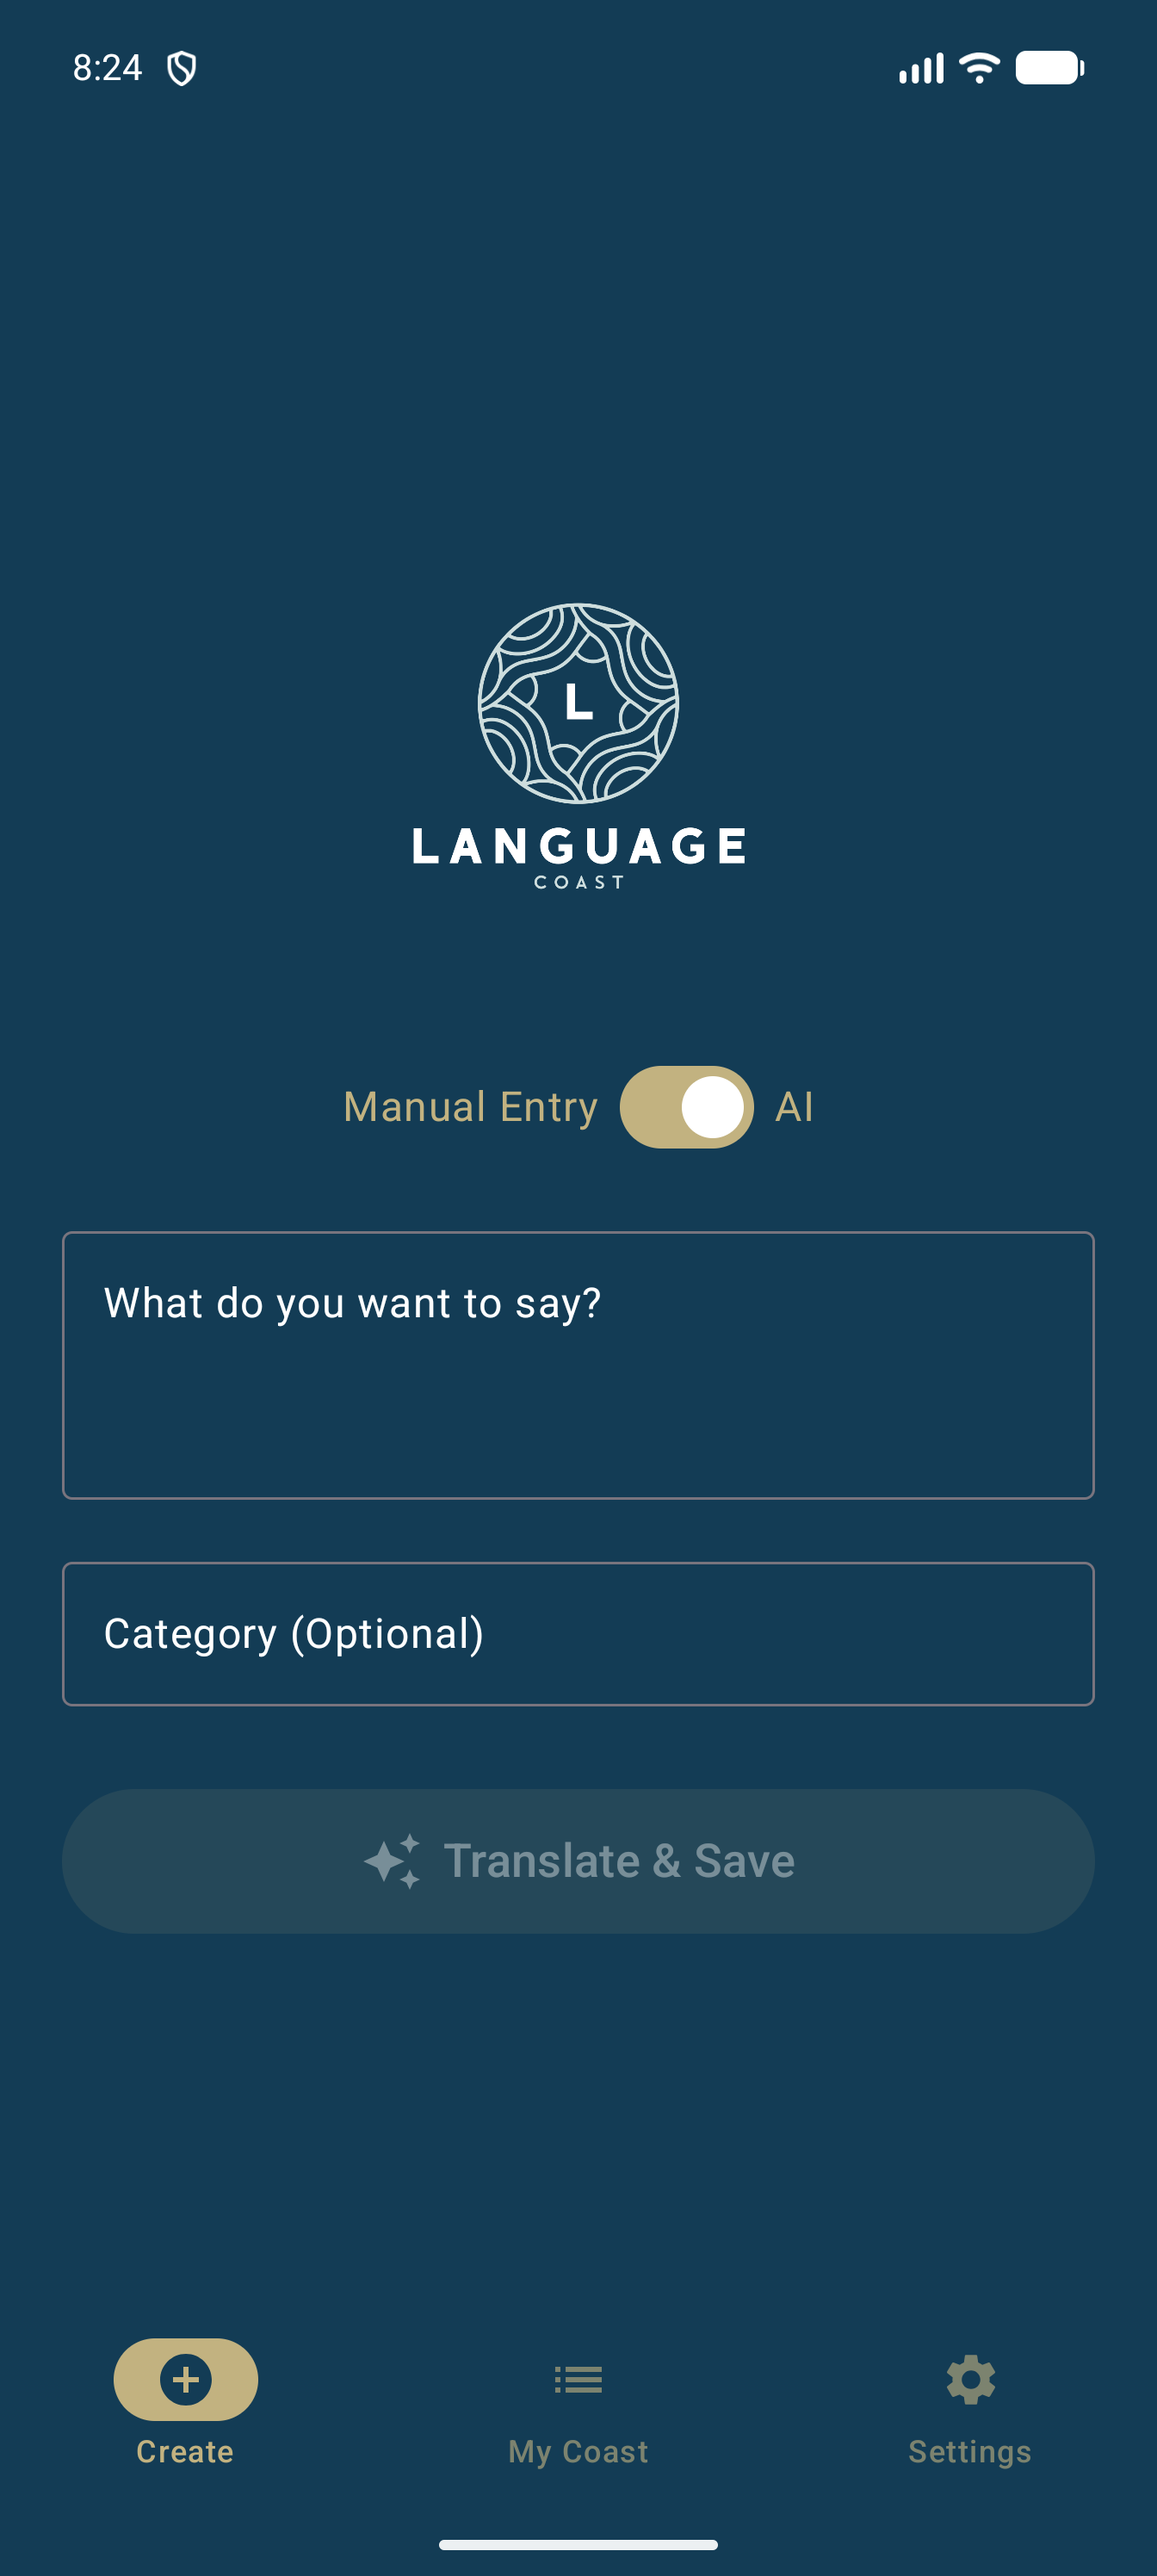
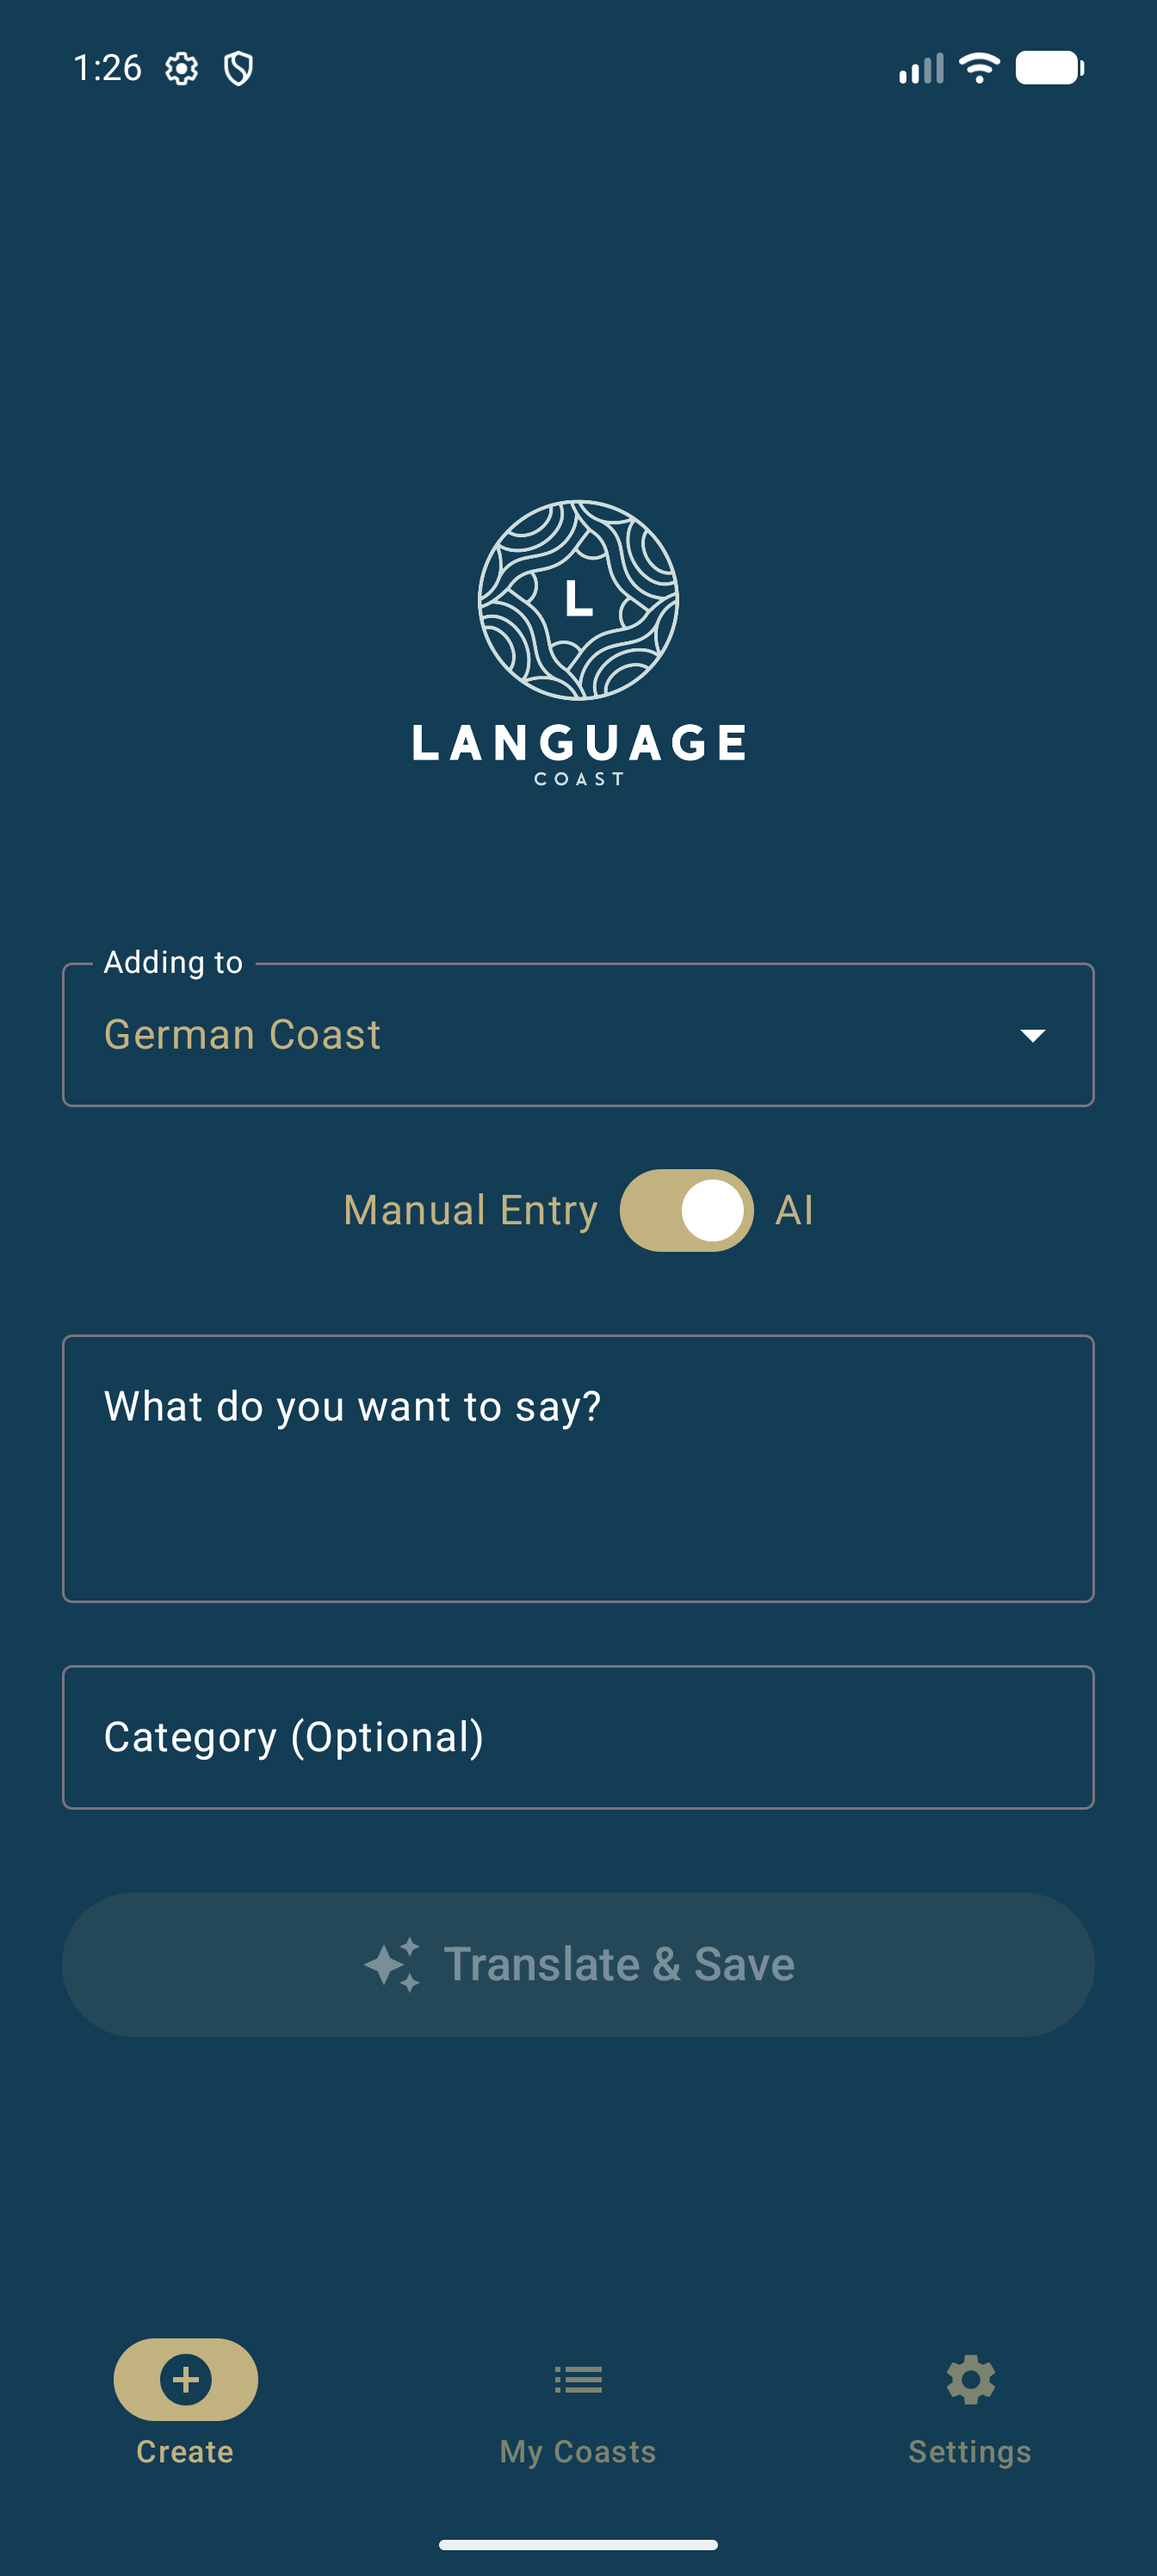
Retake README screenshots for coasts
Update Create, My Coasts and Settings screenshots and add one of a
coast's islands.

diff --git a/README.md b/README.md
@@ -22,8 +22,9 @@ Language Coast is a flashcard app that changes how you build vocabulary. It comb
 ## 📱 Screenshots
 
 <p align="center">
-  <img src="docs/screenshots/create.png" alt="Create screen" width="200" />
-  <img src="docs/screenshots/my-coast.png" alt="My Coast screen with Language Islands" width="200" />
+  <img src="docs/screenshots/create.png" alt="Create screen with the coast picker" width="200" />
+  <img src="docs/screenshots/my-coast.png" alt="My Coasts screen with a German and an Icelandic coast" width="200" />
+  <img src="docs/screenshots/coast.png" alt="German Coast with its Language Islands" width="200" />
   <img src="docs/screenshots/study.png" alt="Flipped flashcard with Again and Easy buttons" width="200" />
   <img src="docs/screenshots/settings.png" alt="Settings screen" width="200" />
   <img src="docs/screenshots/notification.png" alt="Daily study reminder notification" width="200" />
